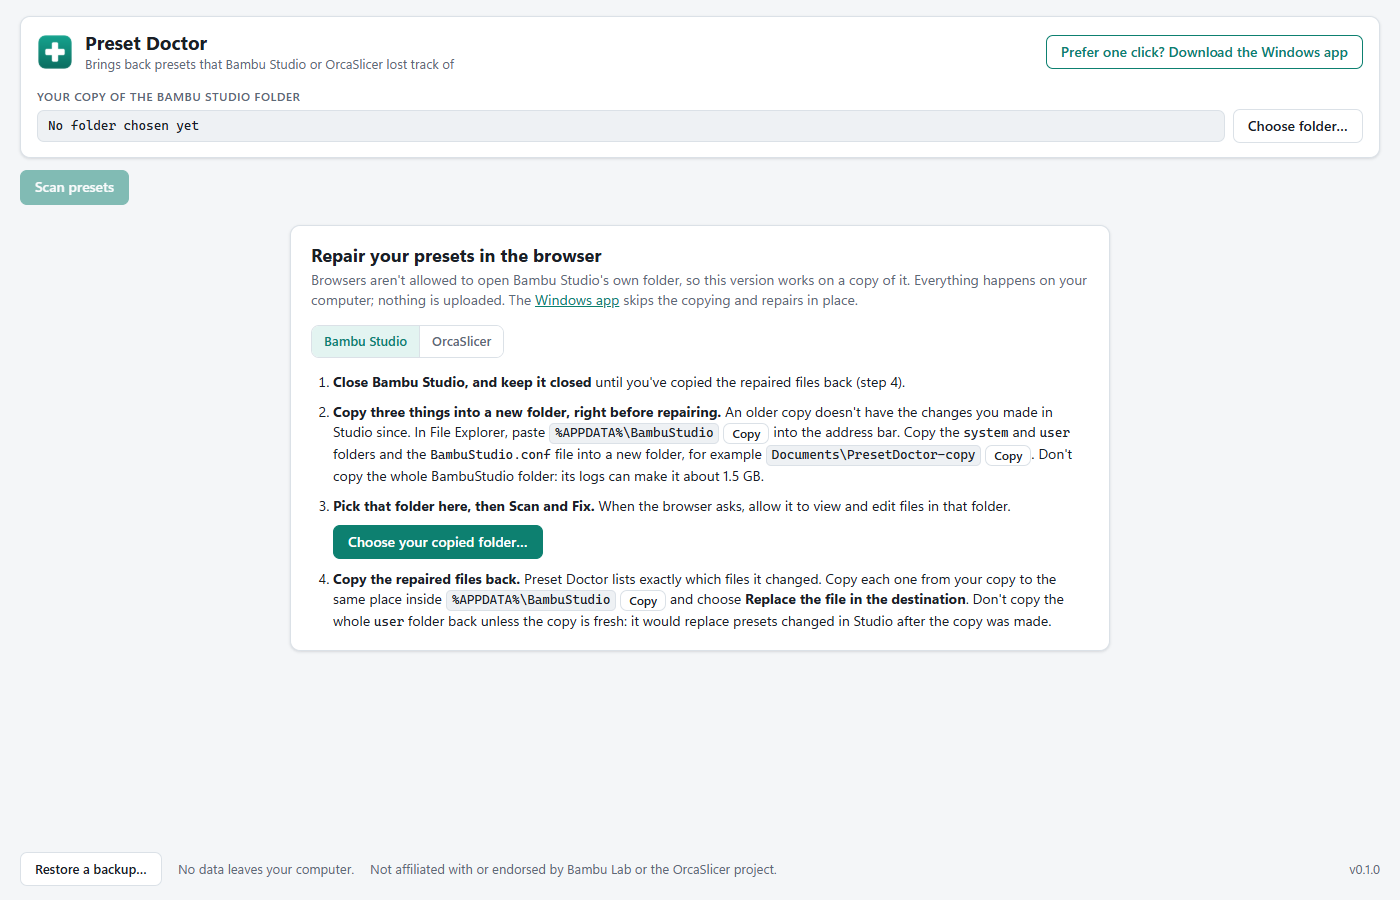
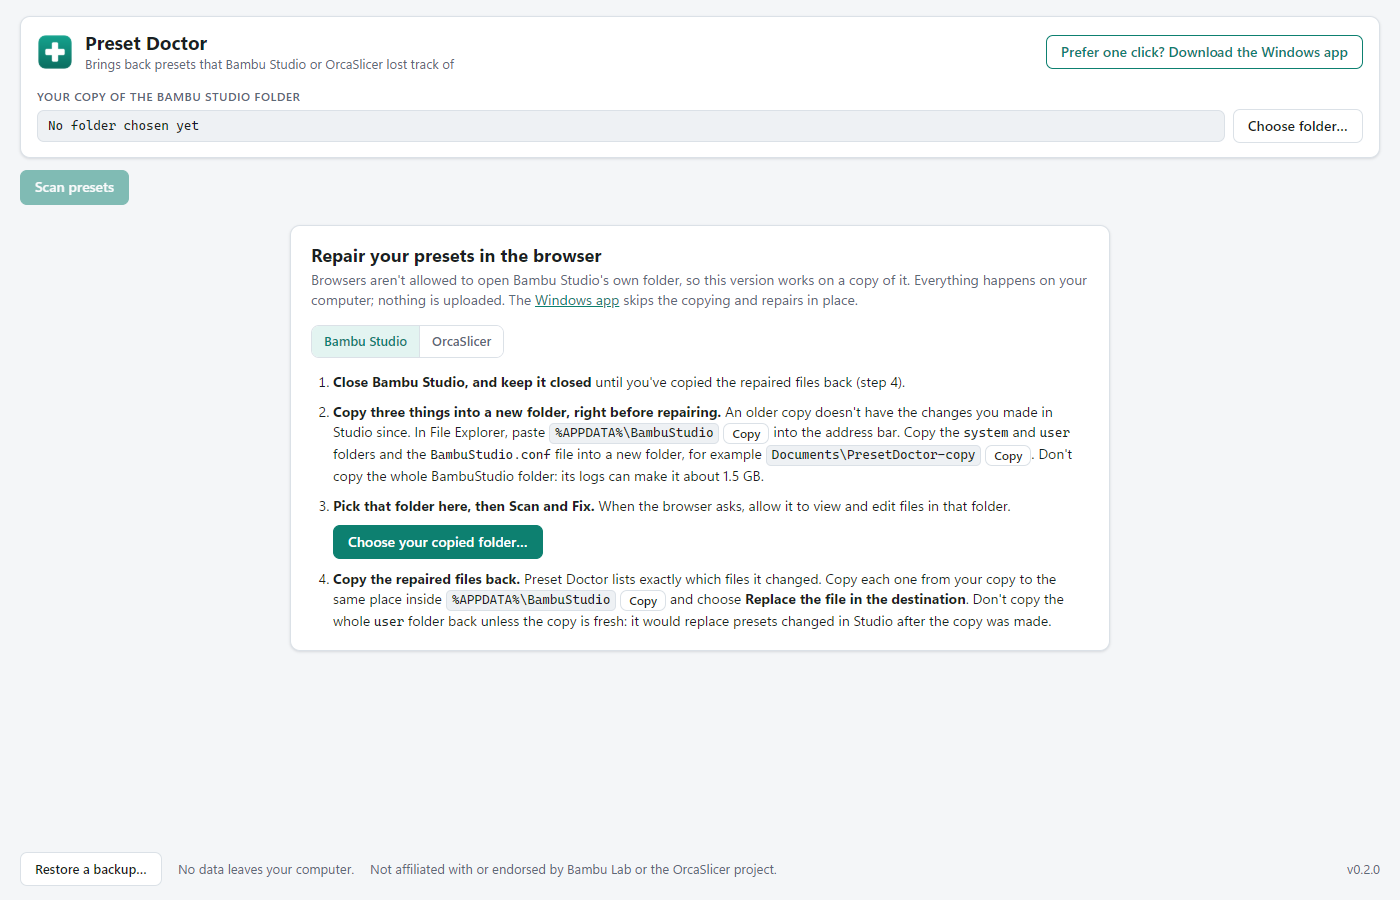
Docs: 0.2.0 screenshots, version examples

diff --git a/docs/real-test-checklist.md b/docs/real-test-checklist.md
@@ -17,7 +17,7 @@ The 18 presets have three things in common, and the predictions depend on them:
 - Preset Doctor writes only while Studio is closed, and so do you.
 - Never edit anything under `%APPDATA%\BambuStudio` by hand during the test, except when
   restoring a backup.
-- Use the 0.1.0 exe, or the CLI from this repo. On your folder both make exactly the same
+- Use the 0.2.0 exe, or the CLI from this repo. On your folder both make exactly the same
   suggestions (checked read-only on a copy of it).
 
 Write down each result as you go. The section at the bottom says what to send back.

diff --git a/.github/ISSUE_TEMPLATE/bug_report.md b/.github/ISSUE_TEMPLATE/bug_report.md
@@ -9,7 +9,7 @@ labels: bug
 What you expected, and what you saw instead. Screenshots help.
 
 **Versions**
-- Preset Doctor version (shown at the bottom of the window, e.g. `v0.1.0`):
+- Preset Doctor version (shown at the bottom of the window, e.g. `v0.2.0`):
 - Windows app or web version:
 - Bambu Studio version (Help > About):
 - System preset version (next to the scan summary, e.g. `02.08.00.06`):
